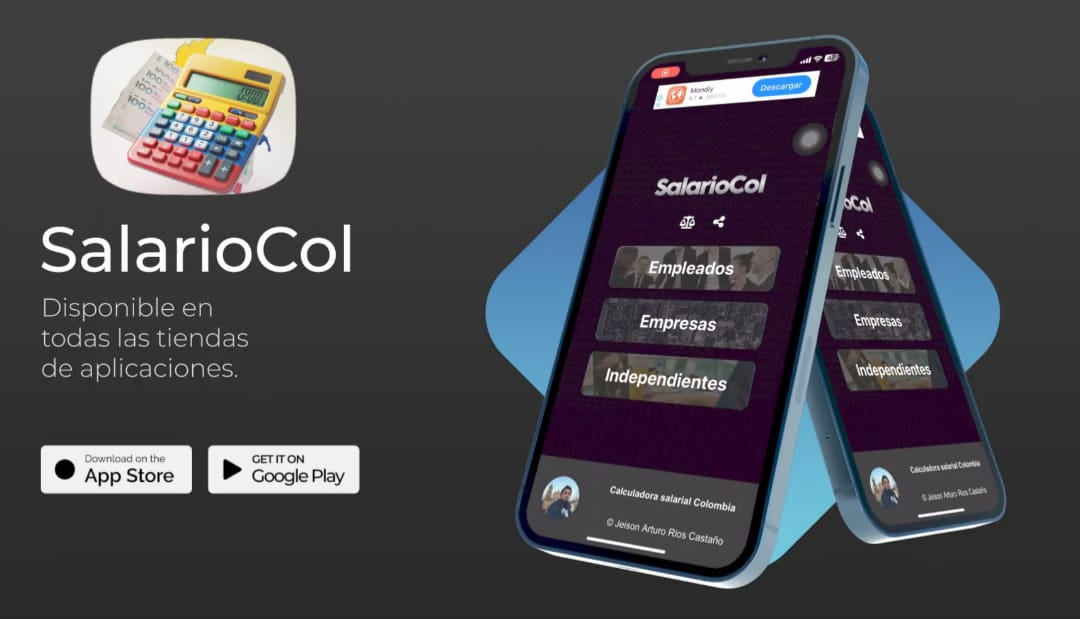
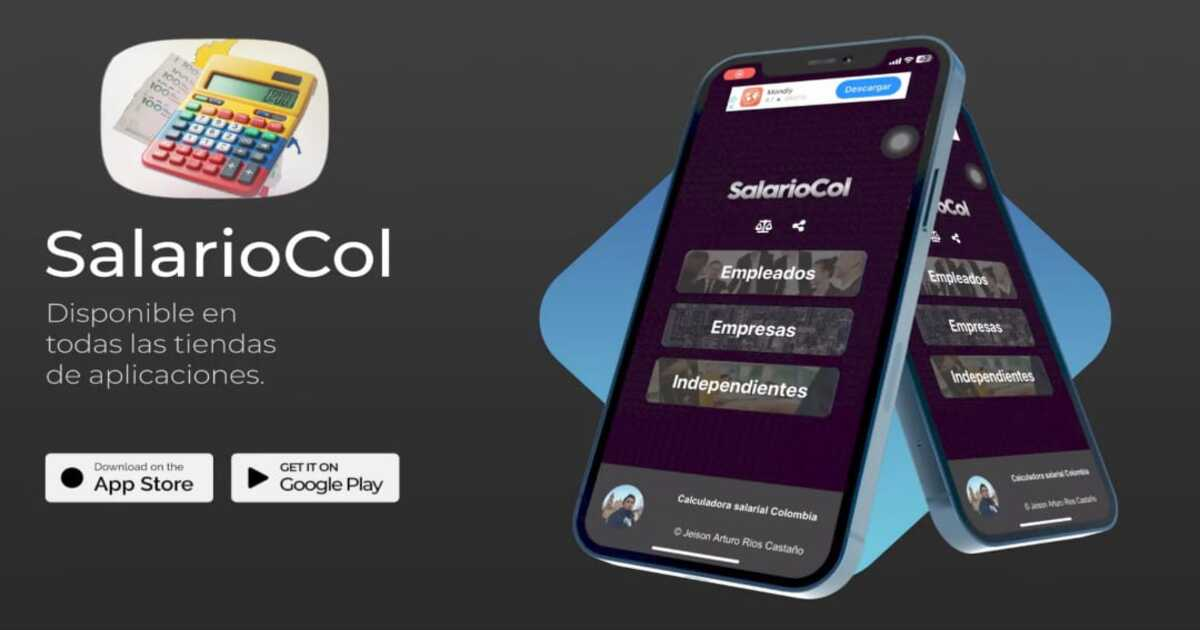
Add files via upload

diff --git a/index.html b/index.html
@@ -14,8 +14,8 @@
     <meta property="og:title" content="SalarioCol">
     <meta property="og:description"
         content="La app definitiva para cálculos laborales en Colombia: salarios, liquidaciones, vacaciones, costos laborales y aportes a seguridad social.">
-    <meta property="og:image" content="https://drive.google.com/file/d/1HF1dADmqRWukVvBybPflg-hORpCVkoHu/view?usp=sharing">
-    <meta property="og:url" content="https://jarcvon0663.github.io/salariocol/">
+    <meta property="og:image" content="https://salariocol.info/img/salariocol.jpeg">
+    <meta property="og:url" content="https://salariocol.info/">
     <meta property="og:type" content="website">
 
     <title>SalarioCol</title>
